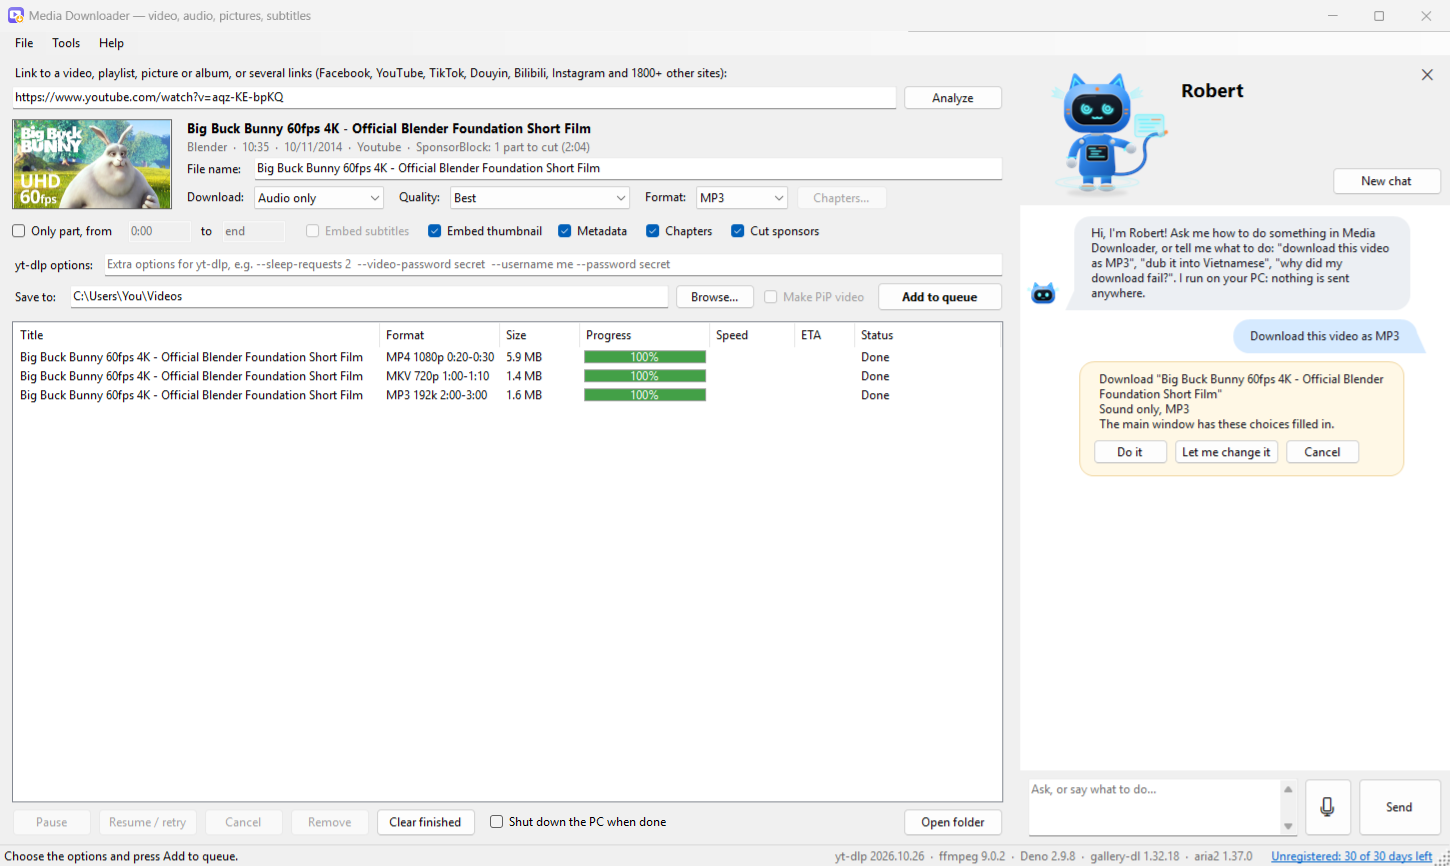
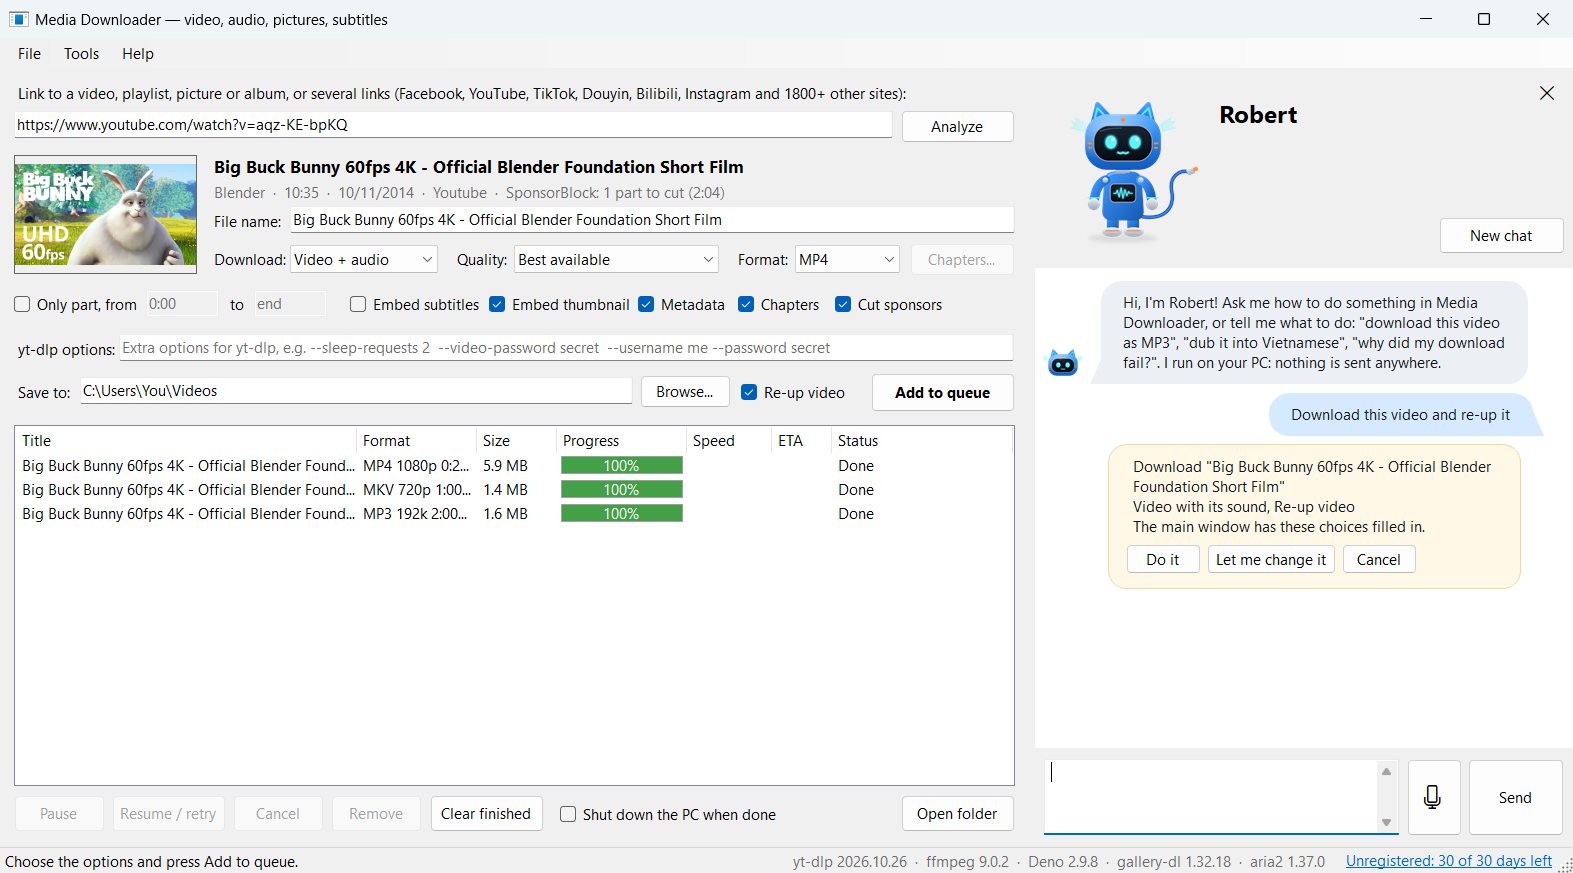
Media Downloader 1.6.0

diff --git a/README.md b/README.md
@@ -5,7 +5,7 @@
 Paste a link, press **Analyze** to see what it has (a video and its qualities, a playlist, or a post's pictures), and press **Add to queue**. Media Downloader does the
 rest: it downloads in the background, several at a time, and tells you when each one is saved.
 
-![The main window: a video read from its link, the download options, the queue with three finished downloads, and Robert, the assistant, on the right, asked to download it as MP3: he has set Audio only and MP3 and asks to go ahead. Video: Big Buck Bunny, (c) Blender Foundation, CC BY 3.0](images/main-window.png)
+![The main window: a video read from its link, the download options, the queue with three finished downloads, and Robert, the assistant, on the right, asked to download it and re-up it: he has ticked Re-up video and asks to go ahead. Video: Big Buck Bunny, (c) Blender Foundation, CC BY 3.0](images/main-window.png)
 
 ## What it does
 
@@ -14,7 +14,7 @@ rest: it downloads in the background, several at a time, and tells you when each
    quality you want: each quality shows its size. Or a post's or album's pictures, all of them or only the latest.
 3. **It downloads in the background.** Pause, resume or cancel any download, and add more while others run.
 4. **It keeps itself working.** Sites change often: the download engine (yt-dlp) updates itself each time the app
-   starts, and one click updates the other tools and Media Downloader itself. Settings can switch yt-dlp to its nightly builds, which get site fixes days sooner.
+   starts, and one click updates the other tools and Media Downloader itself, the window showing what is new in the new version. Settings can switch yt-dlp to its nightly builds, which get site fixes days sooner.
 
 ## Features
 
@@ -39,15 +39,15 @@ rest: it downloads in the background, several at a time, and tells you when each
 | **Subtitles and more inside the file** | Embed subtitles in your languages, the thumbnail as cover, the title and description, and chapter marks. |
 | **Burned-in subtitles** | Or draw the subtitles on the picture (Settings > Subtitles in the video), so they show on any player or site. |
 | **Skip the sponsors** | On YouTube, cut out the sponsor, intro and "subscribe" parts viewers have marked. |
-| **PiP video** | Also make a picture-in-picture version of a download, ready to post. |
-| **Faster on your graphics card** | Converting to MP4 H.264, burning in subtitles and making PiP videos encode the whole video again: Media Downloader does it on your NVIDIA, AMD or Intel graphics card when that is faster than the processor, and on the processor otherwise. An NVIDIA card also decodes the video, which frees the processor (about 1.7 times as fast for 4K), and burns subtitles into WebM videos as AV1 (RTX 40 and newer; others make them VP9 on the processor). Files made on the card can be a little larger. Settings > **Encoding** shows what it found, and can turn it off. Downloading itself doesn't encode anything, so it doesn't need the card. The Frame extractor's one picture every few seconds is also taken on an NVIDIA card, about 3 times as fast for a 4K video. |
+| **Faster on your graphics card** | Converting to MP4 H.264, burning in subtitles and making re-up videos (picture-in-picture too) encode the whole video again: Media Downloader does it on your NVIDIA, AMD or Intel graphics card when that is faster than the processor, and on the processor otherwise. An NVIDIA card also decodes the video, which frees the processor (about 1.7 times as fast for 4K), and burns subtitles into WebM videos as AV1 (RTX 40 and newer; others make them VP9 on the processor). Files made on the card can be a little larger. Settings > **Encoding** shows what it found, and can turn it off. Downloading itself doesn't encode anything, so it doesn't need the card. The Frame extractor's one picture every few seconds is also taken on an NVIDIA card, about 3 times as fast for a 4K video. |
 | **Thumbnails and subtitles on their own** | Tools > **Thumbnail saver** saves a video's cover picture, biggest first; **Subtitle extractor** saves its subtitles as SRT, VTT, ASS or LRC. From a video file on your PC, it saves the subtitles inside it (MKV, MP4) or beside it (SRT, WebVTT named after it), free even once the free days are over. |
 | **Live chat archiver** | Tools > **Live chat archiver** saves a YouTube live stream's or premiere's chat replay: every message with its time, author, Super Chats and memberships. Filter it by words (or a regular expression), and save it as CSV for Excel or JSON. Double-click a message to watch that moment. |
 | **Subtitles from speech** | Most TikTok, Douyin and Facebook videos have no subtitles: in the Subtitle extractor, **Make from speech** listens to what is said and offers a menu to extract the original subtitles, translate them with the local AI model into English, Vietnamese or another language and save a separate subtitle file, or translate and burn them directly into the video. Subtitles can stay at the bottom, cover existing bottom subtitles with a black band, or be placed at the top. From a link, or a video or sound file on your PC. It runs on your PC with whisper.cpp and Qwen3, nothing is sent anywhere, and several times faster on a graphics card of its own (NVIDIA, AMD or Intel Arc) when there is one; the first time it downloads the speech recognizer and a model (150 to 575 MB, by how accurate you choose), and the translator (about 5 GB). |
 | **Hashtags, description and summary** | Tools > **Hashtags, description and summary** shows a video's hashtags, from its title, its description and the site's tags, ready to copy for your own post, and its description. **Summarize** writes what the video is about and its main points, in the language you choose (Vietnamese, English and more), from what is said in it: its own subtitles, or what the speech recognizer hears when it has none. It runs on your PC with Make from speech's translator (Qwen3 8B), nothing is sent anywhere; the first time it downloads it (about 5 GB). Save them all as a text file. A video file on your PC has its hashtags taken from its name and from the title and description inside it (Media Downloader puts them in the videos it downloads), and is summarized from the subtitles inside it or beside it, or what is said. |
 | **Pictures from a video** | Tools > **Frame extractor** saves pictures from a video: one every few seconds, one at each change of scene, at the times you type, a number of them spread evenly, or every frame; of the whole video or only a part, which is all it downloads. As JPG, PNG or WebP, at the size you choose (1080p at first: 4K takes about twice as long), each named with its time in the video, and if you like a contact sheet with all of them in a grid. The pictures appear in the folder as they are made, and the ones made stay when you stop. Spread evenly reads the pictures straight from the video online, without downloading it, when they are 4 seconds apart or more; changes of scene are found in the site's smallest copy of the video when it has one (YouTube does), five times as quick for a 4K video. Every frame says first how much room the pictures take, and warns when the drive hasn't enough. Or choose a video file on your PC: the pictures are taken straight from it. Each video's pictures go in a folder named after it, unless you untick that. |
 | **Voice, music and sound effects** | Tools > **Separate voice, music and sound effects** takes a video's sound apart into what is said, the background music (with its singing) and the sound effects, each to its own file (WAV, MP3, M4A or FLAC): a voice to dub over or subtitle, music without the talking, a video's sound without its music. From a link or a file on your PC. It runs on your PC with the BandIt v2 model, nothing is sent anywhere: on a graphics card of its own (NVIDIA, AMD or Intel) a minute of sound takes about a minute, on the processor several. The first time it downloads ONNX Runtime and the model (about 270 MB). |
-| **Dub into another language** | Tools > **Dub into another language** makes a video speak another language. For example, a video where people speak Chinese comes back with a Vietnamese voice saying what they say. What is said is heard and translated (as Make from speech does), each line is read by a voice at its time, a little faster where the translation is longer, over the video's own music and sound effects with its voice taken out (or its sound turned down, if you untick that), and the picture is kept as it is. The original sound stays as a second audio track you can switch to. Into Vietnamese, English, Chinese, Indonesian, French, German, Spanish, Portuguese, Italian, Russian, Arabic or Turkish. From a link or a file on your PC. It all runs on your PC, with the Piper voices, nothing is sent anywhere. The voice is a synthetic one, not the speaker's. The first time it downloads Piper and the voice (about 85 MB), besides the speech recognizer, the translator and the separator when they aren't there yet. |
+| **Dub into another language** | Tools > **Dub into another language** makes a video speak another language. For example, a video where people speak Chinese comes back with a Vietnamese voice saying what they say. What is said is heard and translated (as Make from speech does), each line is read by a voice at its time, a little faster where the translation is longer, over the video's own music and sound effects with its voice taken out (or its sound turned down, if you untick that), and the picture is kept as it is. The original sound stays as a second audio track you can switch to. Into Vietnamese, English, Chinese, Indonesian, French, German, Spanish, Portuguese, Italian, Russian, Arabic or Turkish. From a link or a file on your PC. It all runs on your PC, with the Piper voices, nothing is sent anywhere. The voice is a synthetic one, not the speaker's. You can also burn the translation into the picture as subtitles (at the bottom, over a black box, or at the top), hide subtitles already burned into the video (blurred, covered with a black box or cut off, before the new ones are drawn: they are hidden, not taken out), and make a re-up video from it in the same pass. The first time it downloads Piper and the voice (about 85 MB), besides the speech recognizer, the translator and the separator when they aren't there yet. |
+| **Re-up video** | Also make a version of each download ready to post again: tick the **Re-up video** box beside Add to queue, and set it in Settings > **Re-up**. There, **Frame** is 9:16 (Shorts, Reels, TikTok), 1:1, 4:5, 16:9 or **Same shape as the video** (the first, and the default: it keeps the video's own shape), **Video in the frame** is whole over a blurred copy of itself, filled in, or a picture-in-picture (smaller, with a white border, over a blurred copy: what the old **Make PiP video** box made), and your own logo goes in a corner. It is one video, saved next to the download as "Title_reup.mp4" ("Title.vi_reup.mp4" when its speech is translated into Vietnamese, with the language of the translation in its name). In that same video it can also have what is said translated (**Translate into**) and dubbed with a voice or burned in as subtitles, and it writes a title, description and hashtags to post with in a text file ("Title.post.txt", "Title.vi.post.txt" when translated). The **Re-up video** box is greyed out while these choices would make nothing (the video's own shape, whole, with no logo, no step and no old subtitles to hide): choose a frame, a logo, picture-in-picture or a step. What those need (the speech recognizer, the translator, the voice) is downloaded once from Tools > **Dub into another language**, which is also where the AI steps take their choices from (the music and original sound kept, where the subtitles go). The Dub window has its own **Also make a re-up video** box, and **Hide the video's old subtitles** (also in Settings > **Re-up**, the same choice; **Pick on a picture** shows a picture of the video, from a file on your PC or a link, and you drag a box over the subtitles instead of typing numbers; the box can be a part of the width, except when cutting off, which takes the whole width): it blurs, covers with a black box or cuts off the band where subtitles burned into the picture are, before the new ones are drawn. That hides them, it can't take them out. Robert can set all this for you: tell him the frame, the logo, the language and the steps you want. It all runs on your PC, nothing is sent anywhere. Only for videos you may post again: your own, or with the owner's permission. |
 | **An assistant to ask** | Help > **Ask Robert** (F1) opens a pane on the right of the window (F1 again closes it; left open, it opens again with the app) to chat with Robert, a robot cat who knows the app: ask how to do something, why a download failed (he reads its log), or tell him what to do, in Vietnamese or English: "download this video as MP3", "dub it into Vietnamese", "summarize this video". He fills in the main window or opens the right Tools window, and shows a card first: **Do it**, **Let me change it**, or **Cancel**. What needs a license still does. Press the microphone to ask by voice: he writes down what you said with the speech recognizer and reads his answer aloud with the dubbing's voice, in your language. He runs on your PC with the translator's language model (Qwen3 8B), nothing is sent anywhere; the first time he downloads it (about 5 GB), unless the translation or summaries did already. Free to use, also once the free days are over. |
 | **Bilingual subtitles** | In the Subtitle extractor, tick two languages and **Bilingual**: one file shows each line in both, the language you choose on top, the other under it. For learning a language, or watching together. |
 | **Browser extension** | In Chrome, Edge or Brave, one click on the extension's button sends the page you're on to the app, a video, pictures or a post (a blue arrow on the button shows when the page is a video), signed in as you are in the browser. Or right-click a link, a video or a picture and choose **Download with Media Downloader**. |
